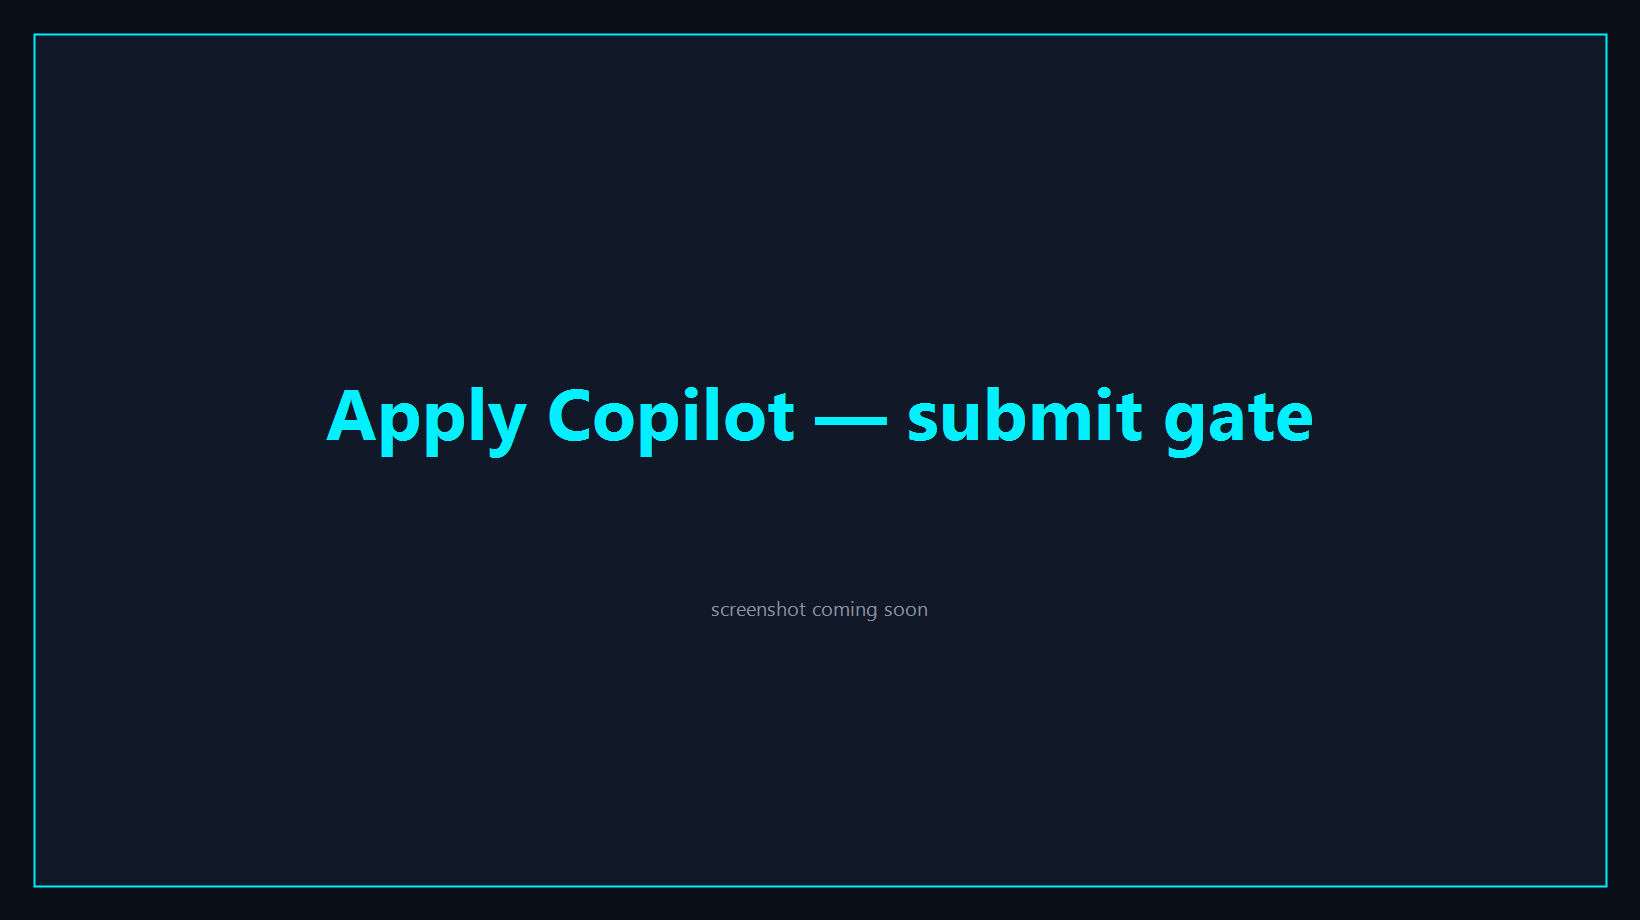
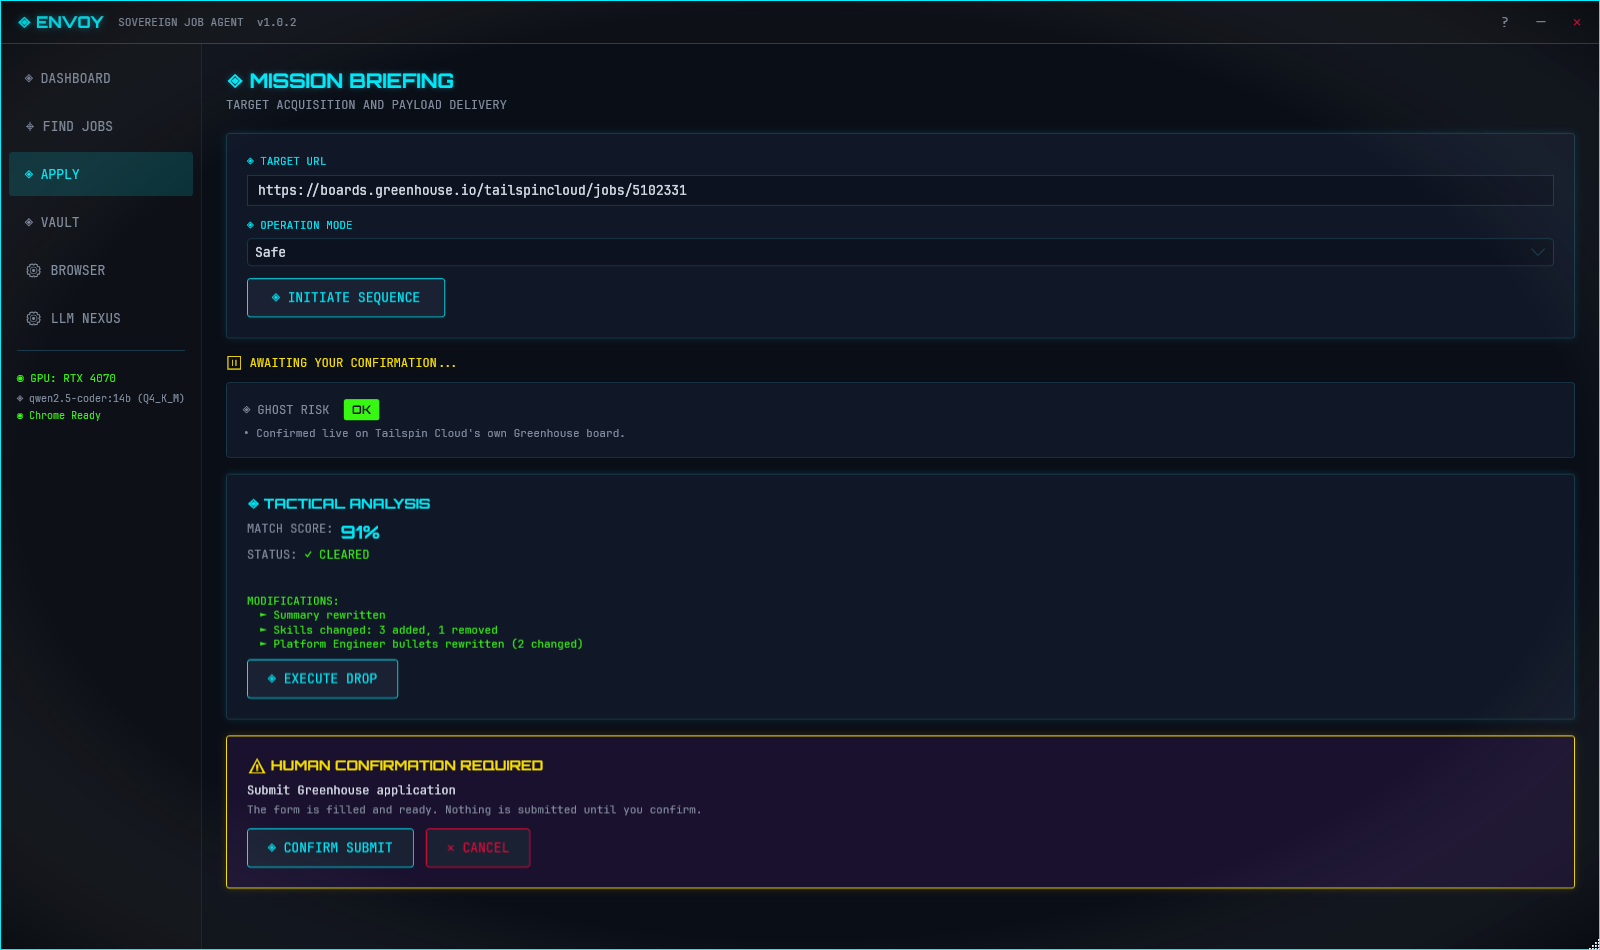
docs(readme): real app screenshots; fix Apply mode dropdown theme
Replace the three "screenshot coming soon" cards with real captures of the
v1.0.2 build: the Ghost Risk panel, the Find Jobs list, and the Apply view
paused at the confirm gate. The shots are staged with fictional demo data
(Contoso, Northwind, Woodgrove, Tailspin) so no real company sits next to a
risk band and no personal data appears. Every state shown is one the shipping
scorer can produce, including the Neutral-with-evidence card, since Elevated
is not reachable with a single probabilistic signal.

Also drop the stale swap-this-image comments, point the release badge at the
live latest release instead of a hardcoded v1.0.1, and base CyberComboBox on
HandyControl's dark template: the default WPF chrome rendered the Apply view's
mode dropdown light-on-light and unreadable, which the screenshots exposed.

Closes #16

diff --git a/src/Envoy.UI/Themes/CyberpunkTheme.xaml b/src/Envoy.UI/Themes/CyberpunkTheme.xaml
@@ -155,7 +155,10 @@
         </Style.Triggers>
     </Style>
 
-    <Style TargetType="ComboBox" x:Key="CyberComboBox">
+    <!-- BasedOn the HandyControl dark template: the default WPF ComboBox chrome
+         ignores Background and renders a light system-theme bar, which left the
+         selected text unreadable (light-on-light) in the Apply view. -->
+    <Style TargetType="ComboBox" x:Key="CyberComboBox" BasedOn="{StaticResource ComboBoxBaseStyle}">
         <Setter Property="Background" Value="{StaticResource BgInputBrush}"/>
         <Setter Property="Foreground" Value="{StaticResource TextPrimaryBrush}"/>
         <Setter Property="BorderBrush" Value="{StaticResource BorderGlowBrush}"/>

diff --git a/README.md b/README.md
@@ -1,5 +1,4 @@
 <p align="center">
-  <!-- Banner. Swap assets/banner.png for a real wordmark when you have one. -->
   <img src="assets/banner.png" alt="Envoy" width="640">
 </p>
 
@@ -12,7 +11,7 @@
 
 <p align="center">
   <img src="https://img.shields.io/badge/license-AGPL--3.0-blue.svg" alt="License: AGPL-3.0">
-  <img src="https://img.shields.io/badge/release-v1.0.1-2ea44f" alt="Latest release v1.0.1">
+  <img src="https://img.shields.io/github/v/release/LXBStudioLLC/envoy?color=2ea44f&label=release" alt="Latest release">
   <img src="https://img.shields.io/badge/platform-Windows%2010%2F11%20x64-0078D6" alt="Platform: Windows 10/11 x64">
   <img src="https://img.shields.io/badge/installer-Authenticode%20signed-4c1" alt="Signed installer">
   <img src="https://img.shields.io/badge/built%20with-.NET%208-512BD4" alt="Built with .NET 8">
@@ -43,10 +42,9 @@ You tailor the resume, fill out the same fields again, hit submit, and never hea
 - Windows 10/11. Signed installer or a portable zip. Nothing else to install.
 
 <p align="center">
-  <!-- Swap assets/ghost-score.png for the Ghost Risk panel (band, confidence, evidence lines). -->
-  <img src="assets/ghost-score.png" alt="Envoy Ghost Risk panel showing risk band, confidence, and evidence" width="820">
+  <img src="assets/ghost-score.png" alt="Envoy Ghost Risk panel showing the risk band, score, and evidence lines" width="820">
 </p>
-<p align="center"><em>The Ghost Risk panel: the band, the confidence, and the reasons behind the score. (Real screenshot coming soon.)</em></p>
+<p align="center"><em>The Ghost Risk panel: the band, the score, and the reasons behind it. Demo data shown; company and posting are fictional.</em></p>
 
 ---
 
@@ -114,10 +112,9 @@ Envoy has a built-in job search (`Envoy.Discovery`) in the Find Jobs view. It on
 Every posting is scored before it hits your list, so the risk band and the reasons show up right in the results. No scraping behind a login, no bot-evasion, no CAPTCHA solving. Search stays on public endpoints.
 
 <p align="center">
-  <!-- Swap assets/find-jobs.png for the results list with a risk band on each posting. -->
   <img src="assets/find-jobs.png" alt="Find Jobs results list with a risk band on each posting" width="820">
 </p>
-<p align="center"><em>Find Jobs: every result carries its own risk band before you click. (Real screenshot coming soon.)</em></p>
+<p align="center"><em>Find Jobs: every result carries its own risk band before you click. Demo data shown; companies and postings are fictional.</em></p>
 
 ---
 
@@ -137,10 +134,9 @@ You always press submit. Envoy fills the form and then stops and waits for you t
 Fuller automation is on the roadmap, and by design it only runs on employer-owned and ATS career sites. Aggregators like LinkedIn and Indeed stay copilot-only. Envoy doesn't solve CAPTCHAs; if a site puts one up, it hands control back to you.
 
 <p align="center">
-  <!-- Swap assets/apply-copilot.png for the Apply view paused at the Confirm / Cancel gate. -->
-  <img src="assets/apply-copilot.png" alt="Apply view with a filled form paused at the Confirm or Cancel submit gate" width="820">
+  <img src="assets/apply-copilot.png" alt="Apply view paused at the Confirm or Cancel submit gate" width="820">
 </p>
-<p align="center"><em>The copilot fills the form and stops at the gate. Nothing is sent until you confirm. (Real screenshot coming soon.)</em></p>
+<p align="center"><em>The copilot fills the form and stops at the gate. Nothing is sent until you confirm. Demo data shown; company and posting are fictional.</em></p>
 
 ---
 